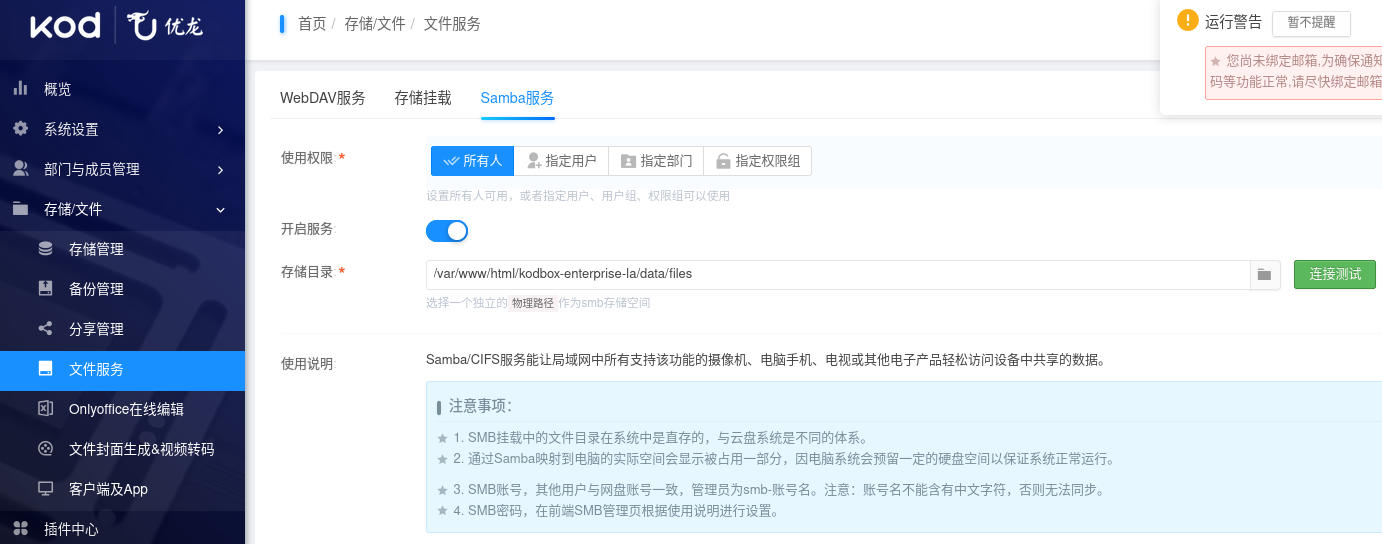
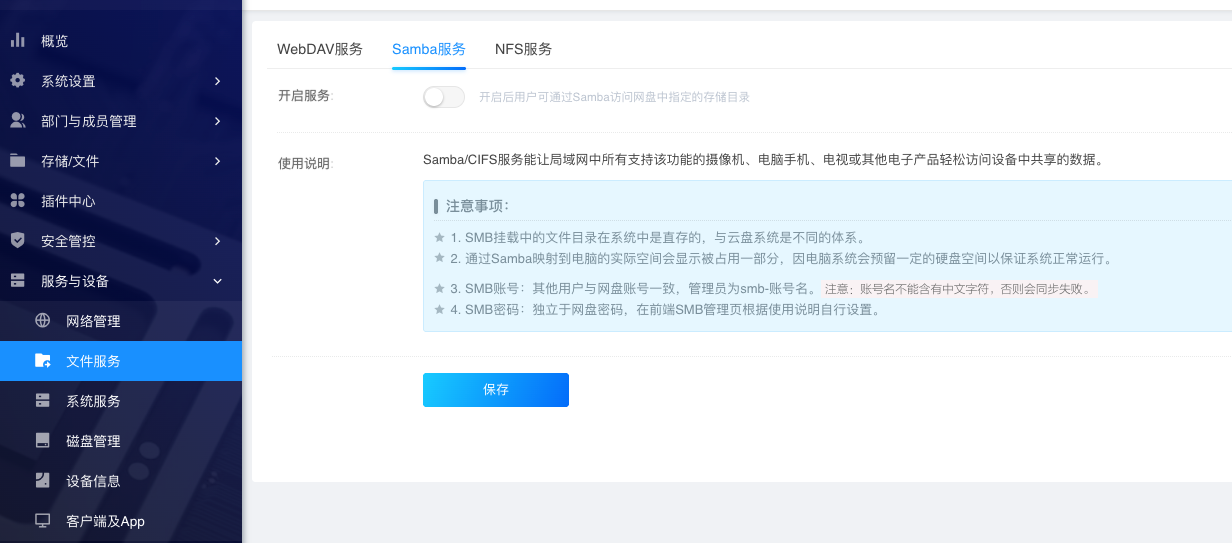
更新 smb，AI 插件等

diff --git a/admin/aidoc.md b/admin/aidoc.md
@@ -1,0 +1,82 @@
+---
+title: "AI助手插件"
+keywords: 插件安装, AI,  aidoc
+description: 关于内AI助手插件安装、配置的相关说明
+---
+
+<div id="aidoc" class="tab-pane fade in active" markdown="1">
+
+> **注意：**
+>
+> - 需要购买 pro 版本的 AI 插件，才能添加自定义模型。
+{: .important}
+
+## AI智能助手
+
+### 功能概述
+
+- **深度集成网盘**: 让AI能针对文件,文件夹内容做问答,整理等丰富功能;全面打通网盘文件增删改查等能力;
+
+- **自定义智能体**: 配置工具,知识库,对话上下文引用,模型等配置; 丰富不同场景的应用生态; 支持分组;
+
+- **AI输出渲染**: markdown实时增量渲染,支持图片,公式,代码块等,支持流程图,思维导图等图表渲染;支持部分代码在线预览运行;
+
+- **智能体一键分享**: 一键将智能体分享给外部用户使用,方便作为特定工具,智能客服等丰富应用场景;
+
+- **会话与服务管理**: 管理用户对话,会话,模型服务; 支持将精选对话内容进行收藏,便于快捷查看; 收藏会话支持一键外链分享;
+
+- **模型与服务集成**: 接入多个模型(DeepSeek, Qwen,本地大模型等),统一调用和管理;
+
+- **安全与隔离机制**: 防止数据串用、越权操作, 文件获取能力天然集成网盘可访问信逻辑,无需担心数据泄露;
+
+...
+
+### RAG配置说明
+
+
+-  模型服务名称: 自定义填写
+-  API地址: 如硅基流动为 `https://api.siliconflow.cn/v1/chat/completions`
+-  API密钥: 登录硅基流动获取 `https://cloud.siliconflow.cn/me/account/ak`
+
+![-Aj.png](/admin/images/ai/-Aj.png)
+
+
+
+#### 嵌入模型添加
+
+1. 模型广场搜索 `BAAI/bge-m3` 适用embedding嵌入模型；
+2. 添加模型
+	a. 模型ID `BAAI/bge-m3`
+    b. 模型名称： 自定义填写
+    c. 模型类型： 嵌入模型
+![20251209-152408-uo.png](/admin/images/ai/-uo.png)
+3. 保存后检测是否正常
+![20251209-152555-GR.png](/admin/images/ai/-GR.png)
+
+
+#### 图生文本模型添加
+
+
+1. 模型广场搜索 `Qwen/Qwen3-Omni-30B-A3B-Instruct` 适用于多模态；
+2. 添加模型
+	a. 模型ID `Qwen/Qwen3-Omni-30B-A3B-Instruct`
+    b. 模型名称： 自定义填写
+    c. 模型类型： 图片描述提取
+![20251209-152738-KP.png](/admin/images/ai/-KP.png)
+3. 保存后检测是否正常
+![20251209-152823-an.png](/admin/images/ai/-an.png)
+
+#### RAG配置项
+
+1. 启用RAG
+![20251209-152928-7s.png](/admin/images/ai/-7s.png)
+2.  配置向量数据库，并检测通过
+![20251209-153027-IE.png](/admin/images/ai/-IE.png)
+3. 指定向量模型， 并检测通过
+![20251209-153104-Gu.png](/admin/images/ai/-Gu.png)
+4.  指定图片描述提取模型和 扫描文件夹
+![20251209-153221-29.png](/admin/images/ai/1-29.png)
+5.  保存设置，等待文件入库和向量化，或立即手动更新。
+![20251209-153417-BC.png](/admin/images/ai/9BC.png)
+
+</div>

diff --git a/user/3.3.md b/user/3.3.md
@@ -5,7 +5,7 @@ keywords: 资源管理器, 云盘, 私有云, 重命名, 新建文件, 新建文
 
 <div id="user" class="tab-pane fade in active" markdown="1">
 
-## 3.3.1 新建文件（夹）
+## 1 新建文件（夹）
 
 ### 1 新建文件夹
 
@@ -18,7 +18,7 @@ keywords: 资源管理器, 云盘, 私有云, 重命名, 新建文件, 新建文
 点选“新建文件夹”旁边的下拉菜单可新建对应格式的文件。
 ![图片介绍](../images/new_file.gif)
 
-## 3.3.2 重命名
+## 2 重命名
 
 选中文件/文件夹，右键菜单或者工具栏可以进行重名操作。支持使用Windows[**快捷键**](/start/3/#快捷键操作)F2重命名（部分浏览器需解除快捷键占用）。
 ![图片介绍](../images/3.3-1.png){:width="500px"}
@@ -26,7 +26,7 @@ keywords: 资源管理器, 云盘, 私有云, 重命名, 新建文件, 新建文
 列表模式显示时双击文件/文件夹名称可以进行重命名。
 ![图片介绍](../images/3.3-2.png){:width="600px"}
 
-## 3.3.3 移动、复制
+## 3 移动、复制
 
 ### 1 鼠标操作
 
@@ -49,7 +49,7 @@ keywords: 资源管理器, 云盘, 私有云, 重命名, 新建文件, 新建文
 >
 > 可道云支持鼠标操作、快捷键、组合操作、模糊定位等多种快捷操作方式，**[了解更多](/start/3/)**
 
-## 3.3.4 删除文件（夹）
+## 4 删除文件（夹）
 
 - 选中需要删除的文件/文件夹，选择“删除”即可删除文件
 - 支持几种删除方式：
@@ -59,4 +59,11 @@ keywords: 资源管理器, 云盘, 私有云, 重命名, 新建文件, 新建文
     ![图片介绍](../images/3.7-1.png){:width="600px"}
 
 自己的文件删除后，将移动到回收站中；分享自他人的文件删除后，会退出分享。 需要在回收站中再次删除文件实现文件的永久删除。
+
+## 5 其他
+
+### 历史版本对比
+
+文件右键点击属性 - 版本，里面可以选择历史版本对比查看
+![his](../images/his.png)
 </div>

diff --git a/admin/stoimport.md b/admin/stoimport.md
@@ -26,7 +26,7 @@ description: 关于数据导入插件的配置说明
 
 ## 配置说明
 
-1. 安装**数据导入**插件，[下载](https://static.box.kodcloud.com/plugins/storeImport.zip)并解压到站点下`plugins`目录。
+1. **数据导入**插件在网盘1.54及之后版本默认安装。
 2. 从后台**存储管理**页，右上方**数据导入**进入配置
 
     ![stoimport1](../images/stoimport1.png){:width="800px"}
